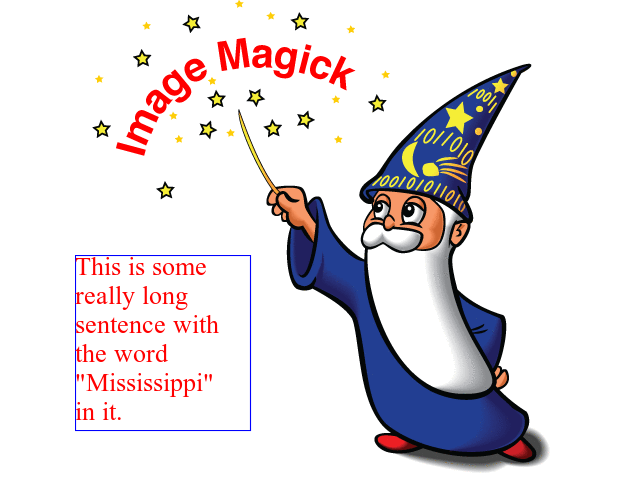
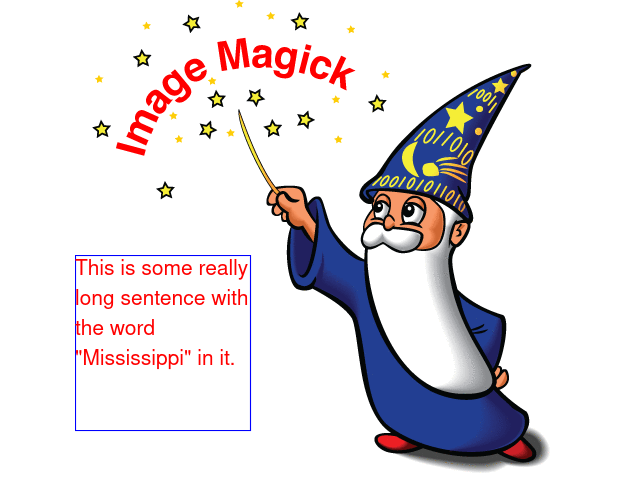
Flake8 word-wrap example code, and re-generated image output

Changed region(s): [[0.0938, 0.5312, 0.4062, 0.8438], [0.0938, 0.8438, 0.1875, 0.875]]

diff --git a/docs/guide/draw.rst b/docs/guide/draw.rst
@@ -607,17 +607,17 @@ a little more sophisticated.
 
 .. code::
 
-    from wand.color import Color
     from wand.drawing import Drawing
     from wand.image import Image
     import re
 
-    def draw_roi(contxt, roi_width, roi_height):
+
+    def draw_roi(ctx, roi_width, roi_height):
         """Let's draw a blue box so we can identify what
         our region of interest is."""
         ctx.push()
-        ctx.stroke_color = Color('BLUE')
-        ctx.fill_color = Color('TRANSPARENT')
+        ctx.stroke_color = 'BLUE'
+        ctx.fill_color = 'TRANSPARENT'
         ctx.rectangle(left=75, top=255, width=roi_width, height=roi_height)
         ctx.pop()
 
@@ -642,7 +642,7 @@ a little more sophisticated.
         # If this message can't be wrapped, just scale it.
         loop_continues = True
         message_width, message_height = eval_metrics(wrapped_text)
-        if message_width > roi_width and not ' ' in text:
+        if message_width > roi_width and ' ' not in text:
             ctx.font_size *= roi_width / message_width  # Scale pointsize
             loop_continues = False
 
@@ -655,24 +655,26 @@ a little more sophisticated.
             text_lines = []
             while len(wrapped_text) > 0:
                 # If the rest fits, we're done.
-                if substring_font_metrics_width(wrapped_text, \
-                        len(wrapped_text)) <= roi_width:
+                value_mid = substring_font_metrics_width(wrapped_text,
+                                                         len(wrapped_text))
+                if value_mid <= roi_width:
                     text_lines.append(wrapped_text)
                     wrapped_text = '\n'.join(text_lines)
                     message_width, message_height = eval_metrics(wrapped_text)
                     if message_height > roi_height:
-                        ctx.font_size *= 0.9 # Reduce pointsize
-                        wrapped_text = text  # Restore original text
+                        ctx.font_size *= 0.9  # Reduce pointsize
+                        wrapped_text = text   # Restore original text
                     else:
                         loop_continues = False
-                    break;
-                
+                    break
+
                 # Find where to break this string so that it fits inside the width.
                 index_low = 0
                 index_high = len(wrapped_text) - 1
                 while index_low <= index_high:
                     index_mid = (index_low + index_high) // 2
-                    value_mid = substring_font_metrics_width(wrapped_text, index_mid)
+                    value_mid = substring_font_metrics_width(wrapped_text,
+                                                             index_mid)
                     if value_mid == roi_width:
                         break
                     elif value_mid < roi_width:
@@ -683,15 +685,21 @@ a little more sophisticated.
                         index_mid = index_low
 
                 # Find the last occurrence of whitespace.
-                whitespace_matches = list(re.finditer(r'\s+', wrapped_text[0:index_mid]))
-                index_mid = whitespace_matches[-1].start() if whitespace_matches else -1
+                whitespace_matches = list(
+                    re.finditer(r'\s+', wrapped_text[0:index_mid])
+                )
+                if whitespace_matches:
+                    index_mid = whitespace_matches[-1].start()
+                else:
+                    index_mid = -1
                 if index_mid <= 0:
-                    ctx.font_size *= 0.9 # Reduce pointsize
-                    wrapped_text = text  # Restore original text
+                    ctx.font_size *= 0.9  # Reduce pointsize
+                    wrapped_text = text   # Restore original text
                     break
                 else:
+
                     # Break the line here.
-                    text_lines.append(wrapped_text[0:index_mid]);
+                    text_lines.append(wrapped_text[0:index_mid])
 
                     # Prepare to break the rest.
                     wrapped_text = wrapped_text[index_mid:].lstrip()
@@ -701,8 +709,8 @@ a little more sophisticated.
                     message_so_far = '\n'.join(text_lines + [wrapped_text])
                     message_width, message_height = eval_metrics(message_so_far)
                     if message_height > roi_height:
-                        ctx.font_size *= 0.9 # Reduce pointsize
-                        wrapped_text = text  # Restore original text
+                        ctx.font_size *= 0.9  # Reduce pointsize
+                        wrapped_text = text   # Restore original text
                         break
 
         if iteration_attempts < 1:
@@ -710,7 +718,8 @@ a little more sophisticated.
         return wrapped_text
 
 
-    message = """This is some really long sentence with the word "Mississippi" in it."""
+    message = ("""This is some really long sentence with"""
+               """ the word "Mississippi" in it.""")
 
     ROI_SIDE = 175
 
@@ -718,7 +727,7 @@ a little more sophisticated.
         with Drawing() as ctx:
             draw_roi(ctx, ROI_SIDE, ROI_SIDE)
             # Set the font style
-            ctx.fill_color = Color('RED')
+            ctx.fill_color = 'RED'
             ctx.font_family = 'Times New Roman'
             ctx.font_size = 32
             mutable_message = word_wrap(img,
